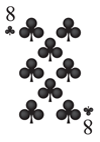
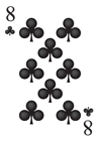
Fix the cards 2

diff --git a/css/gamearea.css b/css/gamearea.css
@@ -20,7 +20,7 @@
 	border-radius: 7px;
 }
 
-#gamearea ul.player_hand img
+#gamearea ul.player_hand img, #gamearea ul.played_cards img
 {
 	border: 1px solid #736F6E;
 	-webkit-border-radius: 7px;
